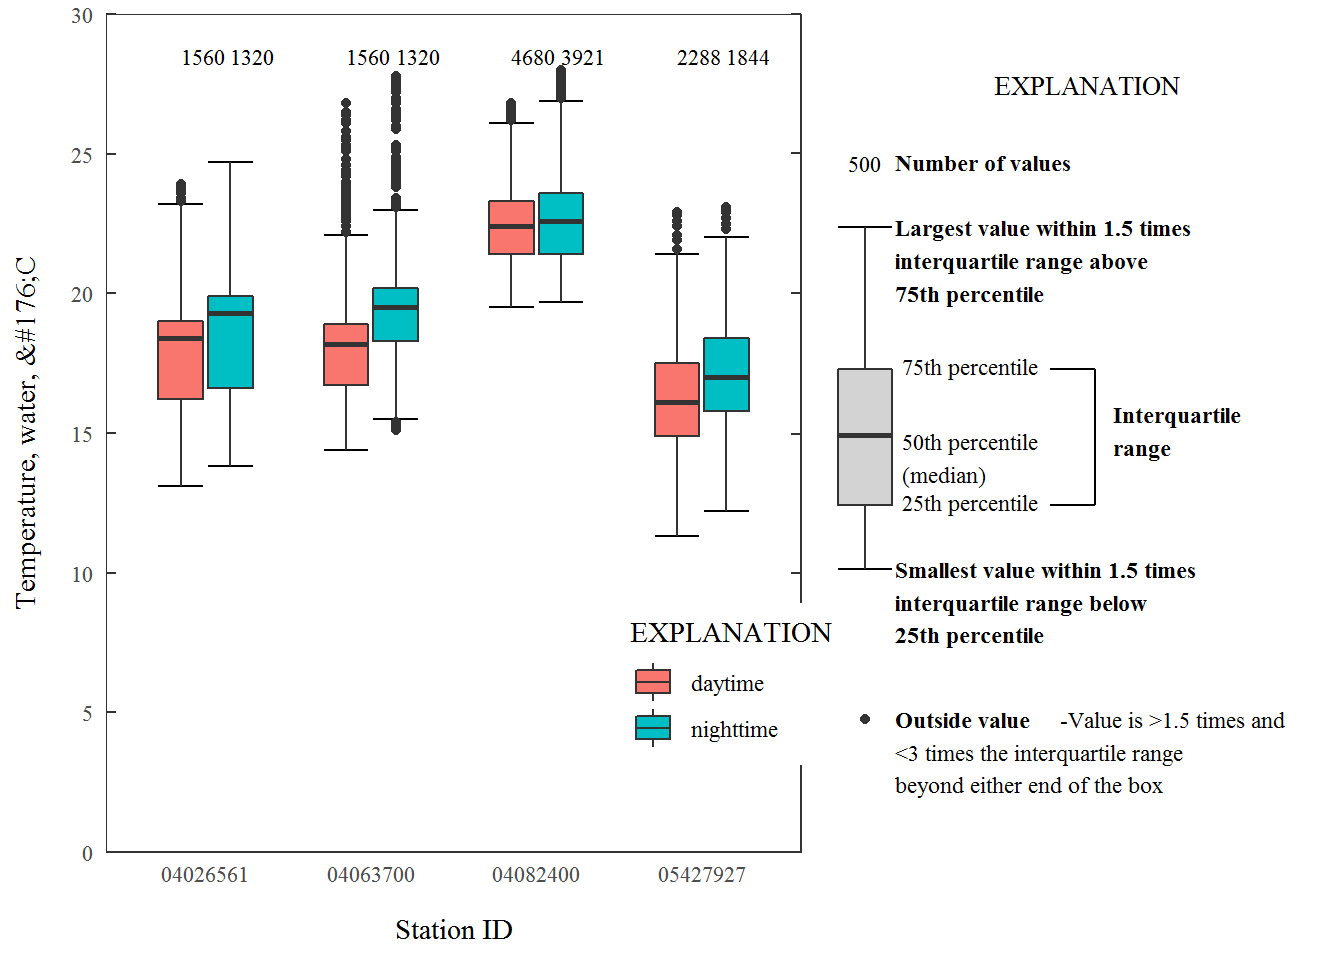
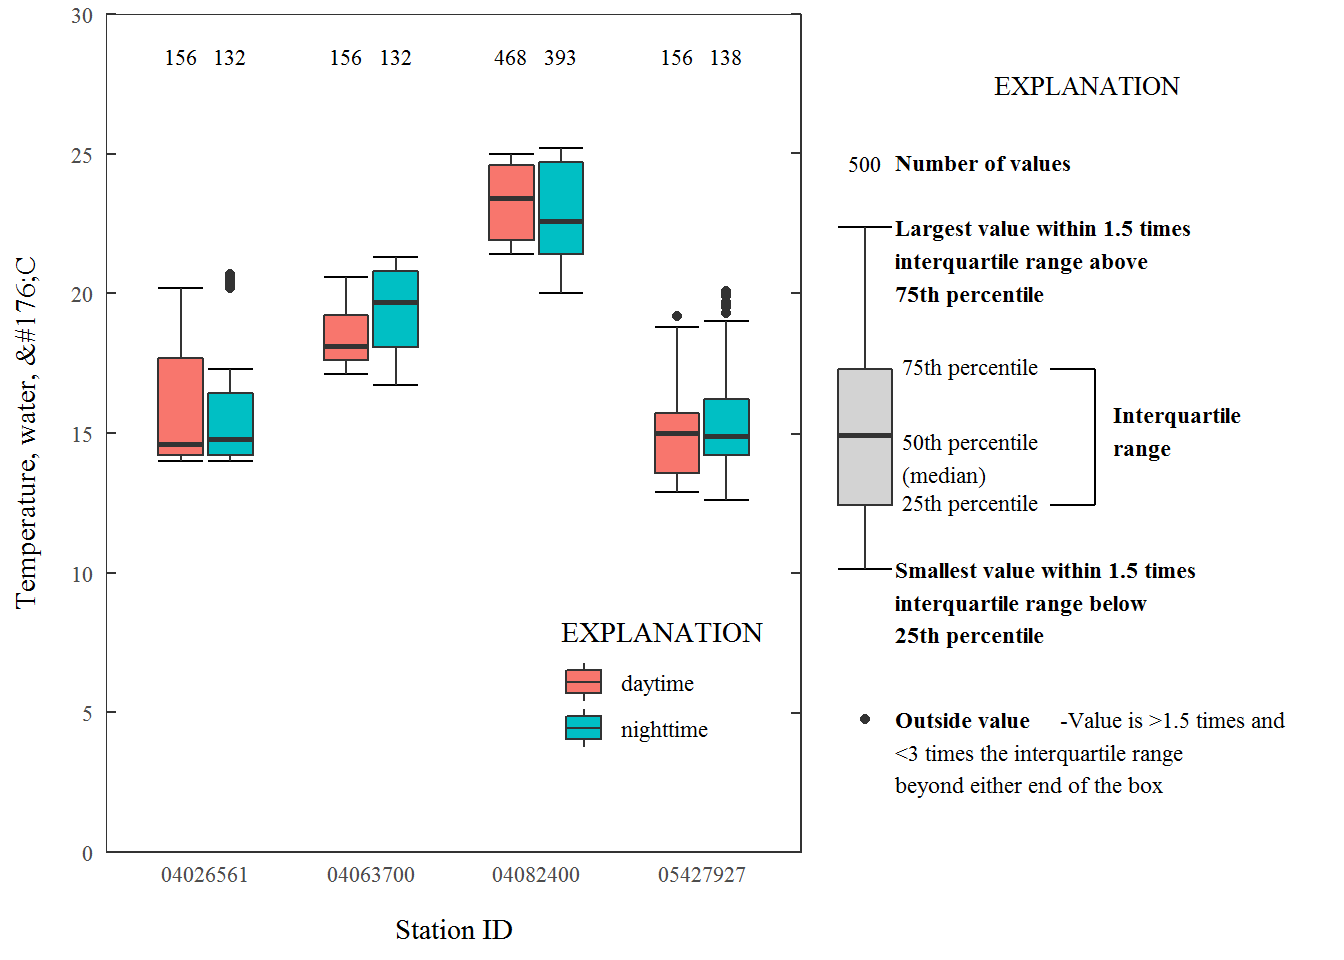
rebuild

diff --git a/content/boxplot_defs.md b/content/boxplot_defs.md
@@ -206,14 +206,17 @@ boxplot_framework <- function(upper_limit, family_font = "serif",
       basic_elements <- list(stat_boxplot(geom ='errorbar', width = width),
                             geom_boxplot(width = width),
                             stat_summary(fun.data = n_fun, 
-                                         geom = "text", position = position_dodge(width),
+                                         geom = "text", 
+                                         position = position_dodge(width),
+                                         hjust =0.5,
                                          aes_string(group=fill_var)),
                             expand_limits(y = lower_limit),
                             theme_USGS_box())
   } else {
       basic_elements <- list(stat_boxplot(geom ='errorbar', width = width),
                             geom_boxplot(width = width, fill = fill),
-                            stat_summary(fun.data = n_fun, geom = "text", hjust =0.5),
+                            stat_summary(fun.data = n_fun, 
+                                         geom = "text", hjust =0.5),
                             expand_limits(y = lower_limit),
                             theme_USGS_box())
   }
@@ -302,7 +305,7 @@ temp_q_data <- readNWISuv(siteNumbers = c("04026561", "04063700",
                                           "04082400", "05427927"),
                           parameterCd = '00010', 
                           startDate = "2018-06-01", 
-                          endDate = "2018-06-30")
+                          endDate = "2018-06-03")
 
 parameter_name <- attr(temp_q_data, "variableInfo") %>%
   filter(variableCode == "00010") %>% pull(variableName)
@@ -323,12 +326,19 @@ temp_q_data <- temp_q_data %>%
 
 q_plot <- ggplot(data = temp_q_data, 
        aes(x=site_no, y=Wtemp_Inst, fill=timeOfDay)) +
-  boxplot_framework(upper_limit = 30, fill_var = "timeOfDay") + 
+  boxplot_framework(upper_limit = 30, 
+                    fill_var = "timeOfDay") + 
   xlab("Station ID") +
   ylab(parameter_name) +
   scale_fill_discrete(name = "EXPLANATION") +
-  theme(legend.position = c(0.9, 0.2))
+  theme(legend.position = c(0.8, 0.2))
+
+plot_grid(q_plot, 
+          explain_plot,
+          nrow = 1, rel_widths = c(.6,.4))
 ```
+
+<img src='/static/boxplots/unnamed-chunk-6-1.png'/ title='TODO' alt='TODO' />
 
 `ggplot_box_legend`: What is a boxplot?
 =======================================
